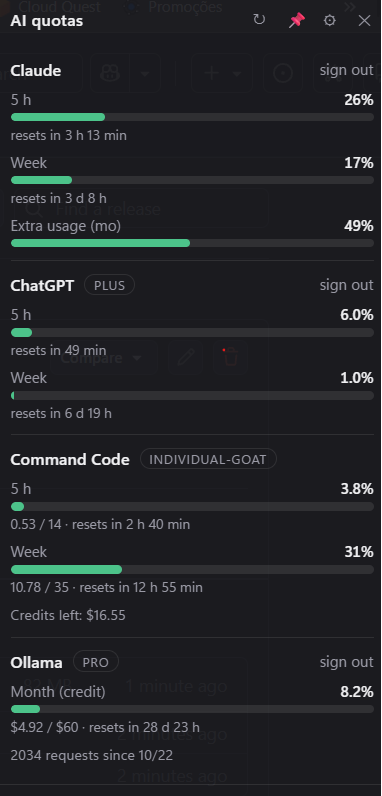
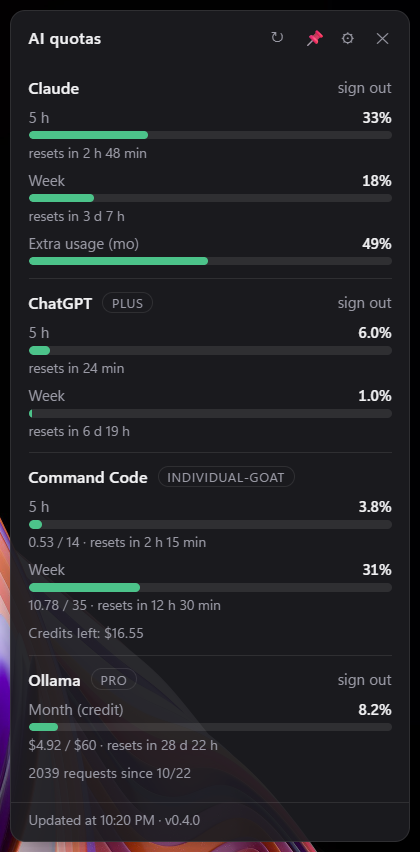
Update README screenshot

Changed region(s): [[0.0, 0.0, 1.0, 1.0], [0.4031, 0.5427, 0.6911, 0.603], [0.2592, 0.3317, 0.3455, 0.3618]]

diff --git a/README.md b/README.md
@@ -6,7 +6,7 @@ Currently supported: **Claude**, **ChatGPT (Codex)**, **Command Code** and **Oll
 
 > Also available in: [Português (pt-BR)](docs/README.pt-BR.md) · [Español](docs/README.es.md)
 
-<p align="center"><img src="docs/screenshot.png" alt="Quota Widget showing Claude, ChatGPT, Command Code and Ollama usage bars" width="382"></p>
+<p align="center"><img src="docs/screenshot.png" alt="Quota Widget showing Claude, ChatGPT, Command Code and Ollama usage bars" width="420"></p>
 
 ## Features
 
